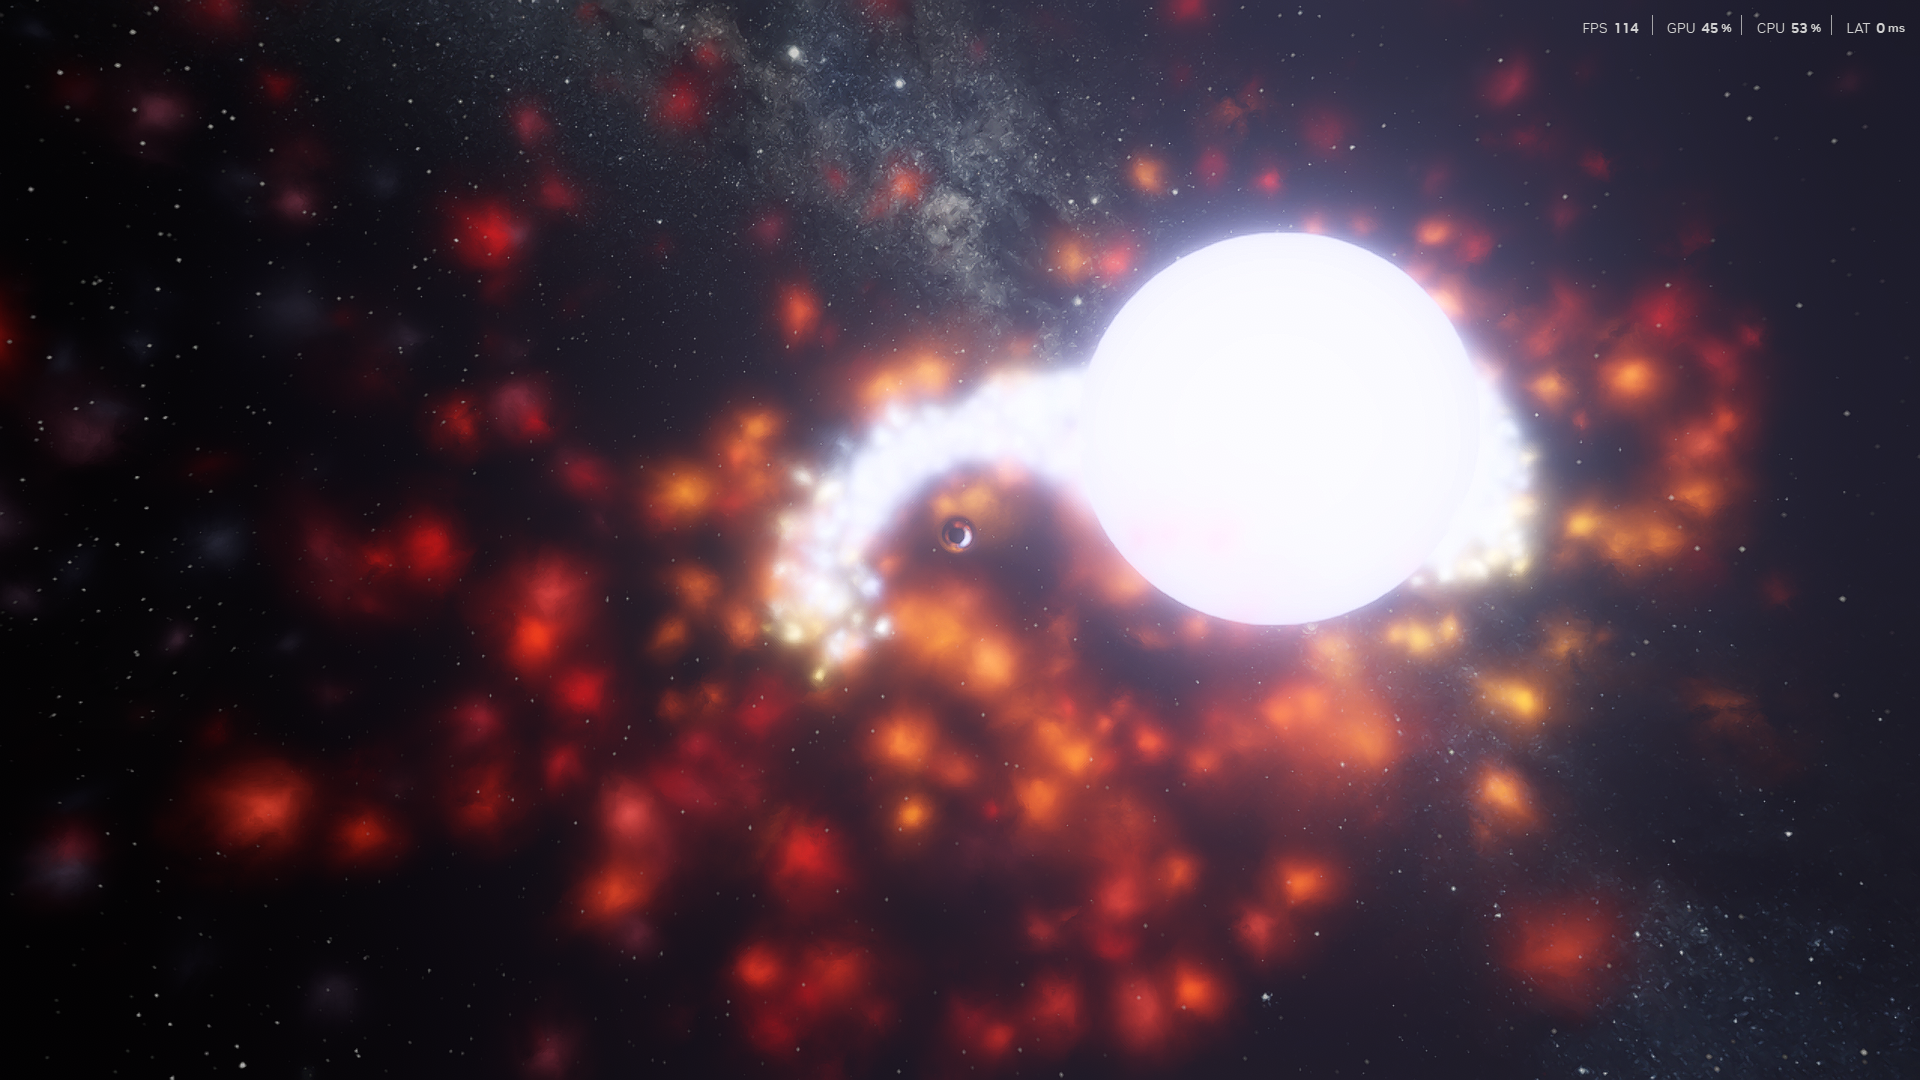
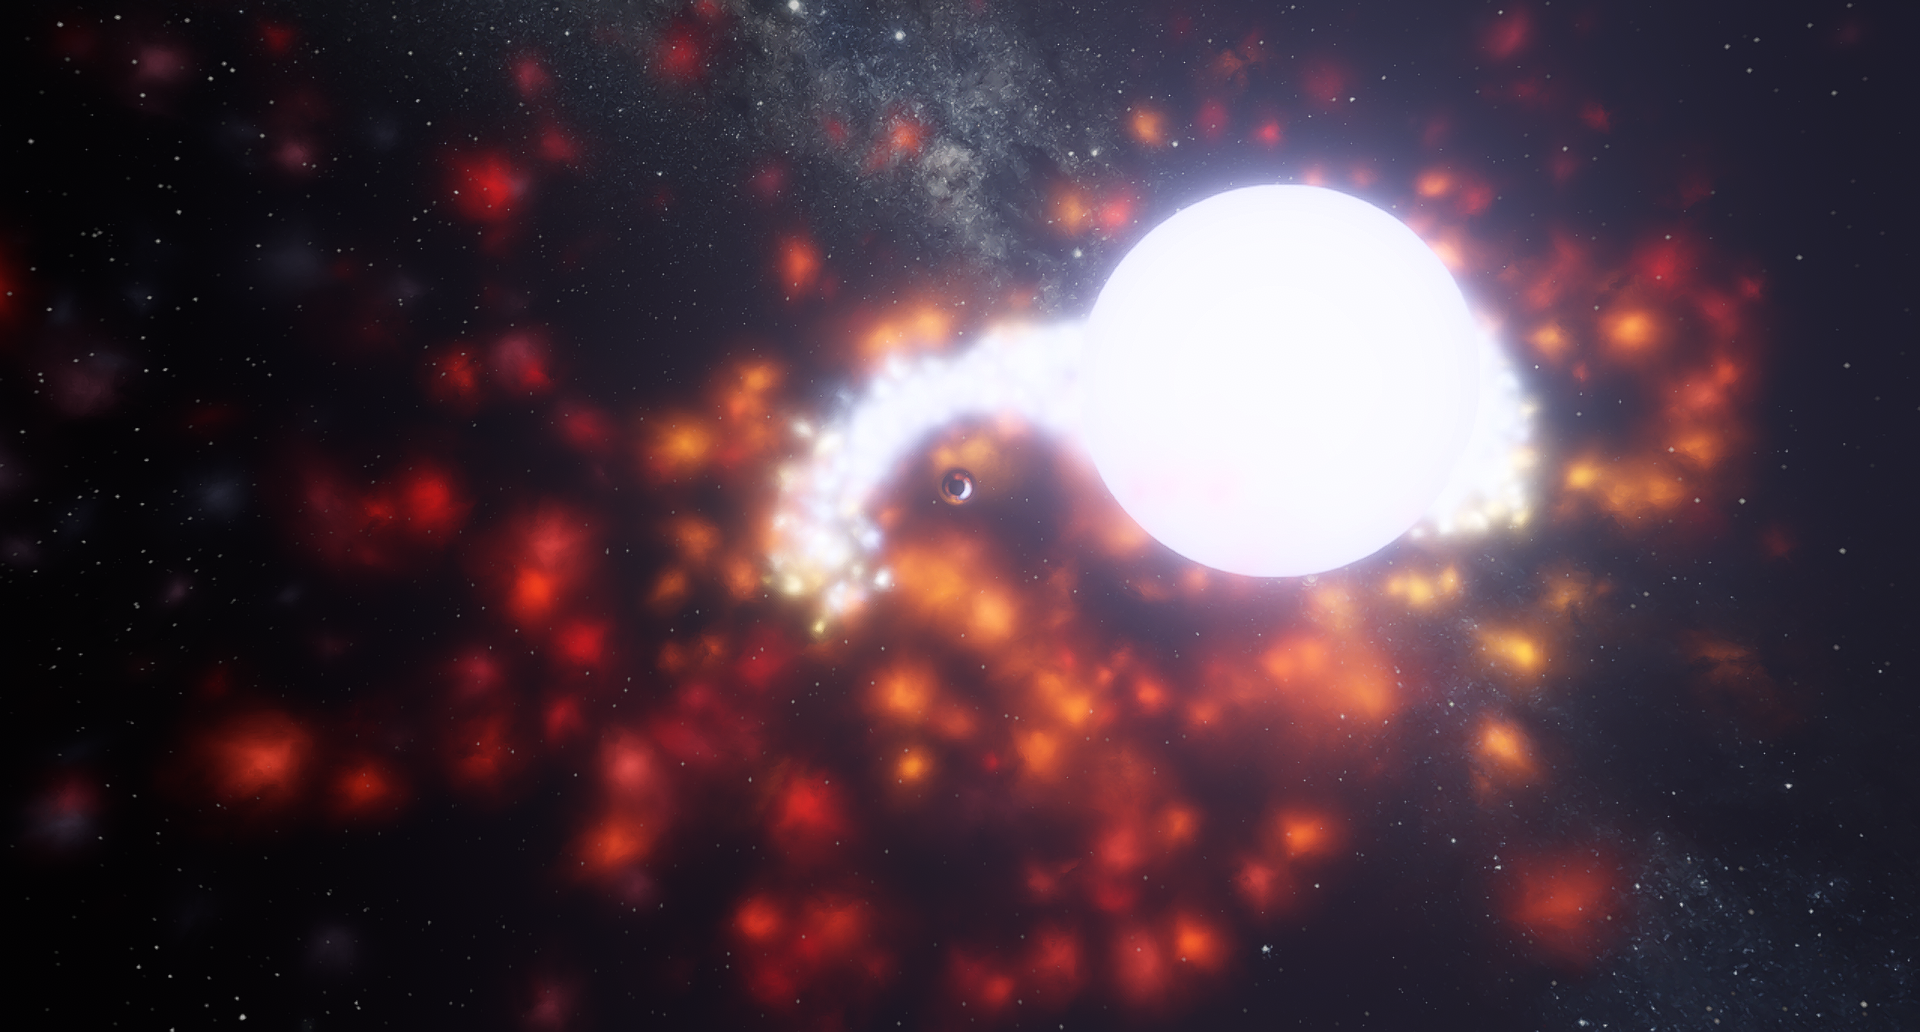
Final Styling before shipping

diff --git a/style.css b/style.css
@@ -6,13 +6,13 @@ div{
 .front_page{
     background-color: rgb(0, 0, 255);
     height: 230px;
-    width: 600px;
-    font-size: 40px;
+    width: 400px;
+    font-size: 30px;
 }
 .projects{
     background-color: rgb(0, 255, 0);
-    height: 250px;
-    width: 500px;
+    height: 170px;
+    width: 300px;
     text-align: center;
     font-family: Arial;
     font-size: 30px;

diff --git a/index.html b/index.html
@@ -23,7 +23,7 @@
         </section>
 
         <section>
-            <h2>Projects</h2>
+            <h2 class="readable">Projects</h2>
             <div class="projects">  
                 <a href="https://github.com/Xavier640/Five-Nights-at-Walter-s">Five Nights at Walter's</a>
             </div>
